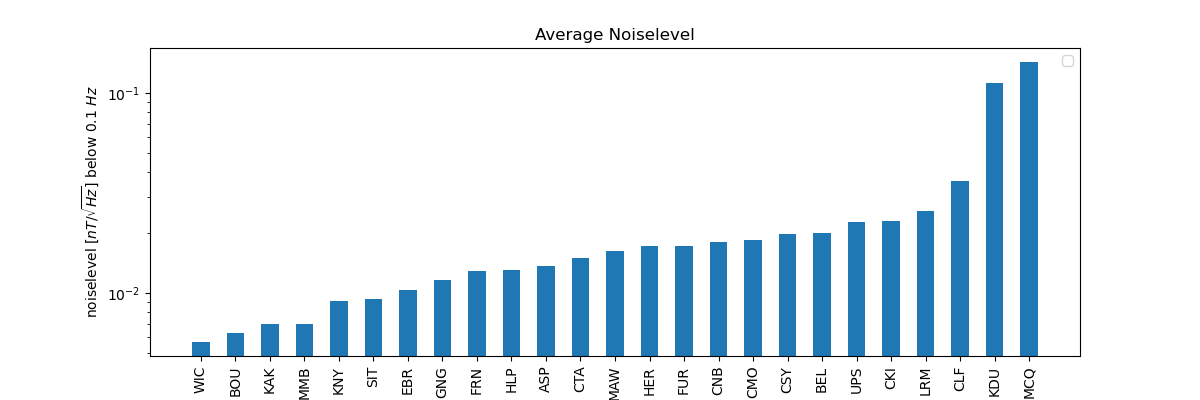
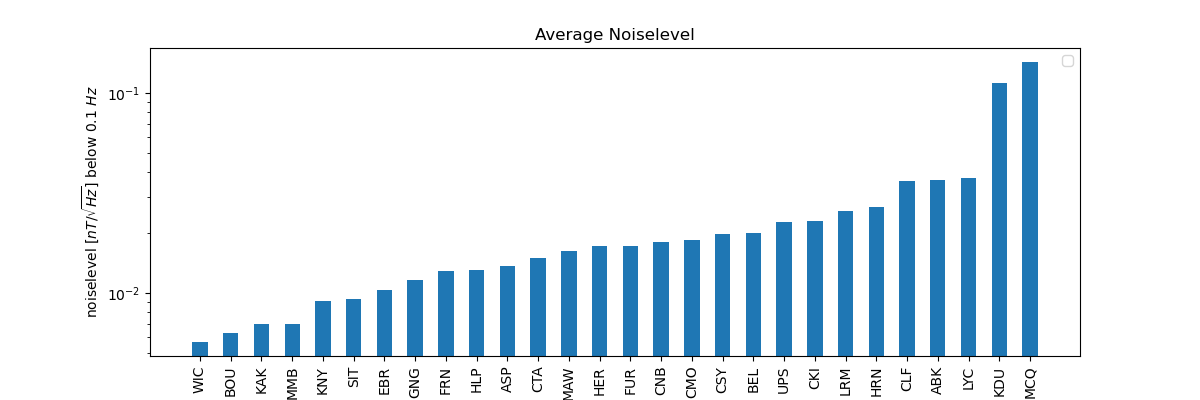
updated README and documentation

Changed region(s): [[0.1542, 0.21, 0.8633, 1.0]]

diff --git a/README.md b/README.md
@@ -196,3 +196,22 @@ MissingData  :  confirmed
 TermsOfUse   :  CC-BY4.0
 ```
 
+IMBOT is ready for a number of future challenges. It can treat data which includes flagging information. IMBOT
+one-minute is already capable of reading and analyzing other $D_{min}$ formats i.e. like a yearly IMAGCDF one-minute 
+data file (IMO\_2016\_PT1M.cdf). At the current state only basic read tests, verifying correct data formats and general 
+readability are performed. This one-minute test module can, however, be extended for more intense data checking similar 
+to check1min. Although IMBOT has been created for definitive $D_{sec}$ it can also be modified and used for other data 
+sets as well. A possible application would be high resolution variation data which could be quickly checked with such
+routine and provided as a tested data product by INTERMAGNET basically on the fly. Further data sources might also be 
+included \added[id=ref2]{, as long as the data formats are supported by MagPy \citep{Leonhardt2025} which is used a 
+format interpreter for IMBOT. As the main developer of MagPy is involved in IMBOT and also in the INTERMAGNET definitive
+data committee, any format changes are quickly included.} IMBOT is written completely modular. Each checking technique 
+is described and coded in an individual module. Thus, IMBOT can be simply extended or modified towards other tests and 
+data sets  \added[id=ref2]{and its methods might be applied to completely different projects. The IMBOT repository with
+all modules and methods is available on GitHUB under MIT licence (https://github.com/geomagpy/IMBOT). It is possible
+to fork this repository and adapt it to other data sources. The repository is actively maintained by the authors. 
+Updates are only included upon request by the INTERMANGET definitive data committee, which meets at least once per year.
+A quick and easy way for reporting problems makes use of the GitHUB issues, so that the authors are automatically 
+informed. When adapting this project on other data sets you have to consider that all data quality testing routines have
+been developed for geomagnetic data. As long as the underlying data formats are supported by MagPy, the effort to adapt 
+the tools for your data set is relatively small.} 
